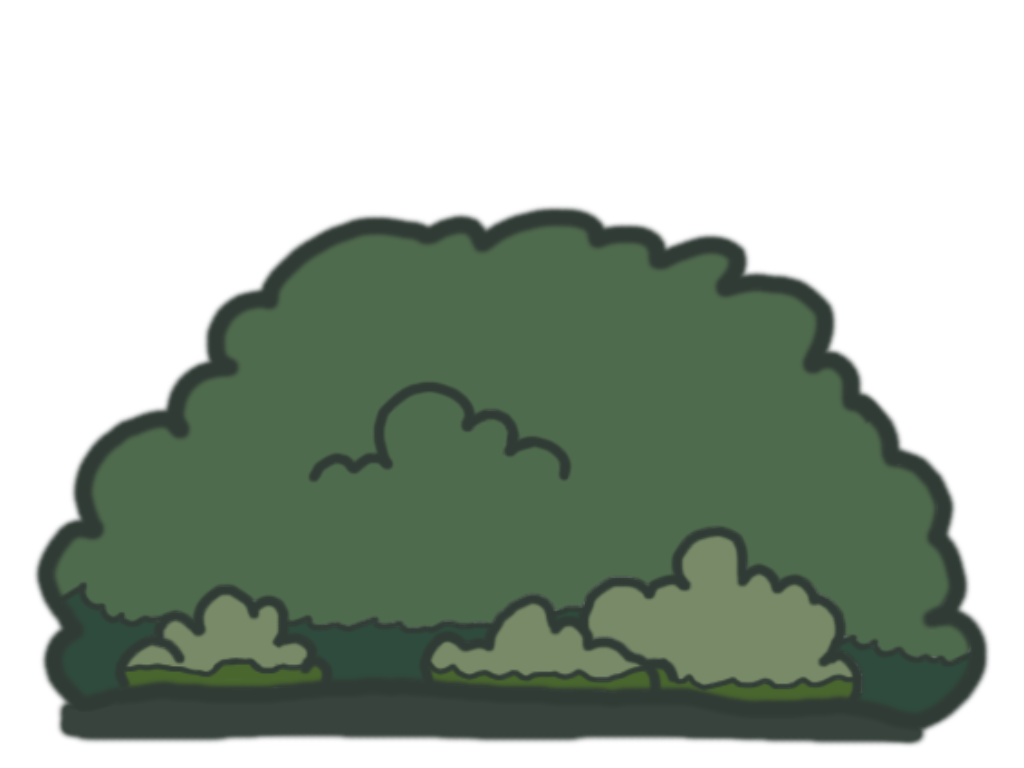
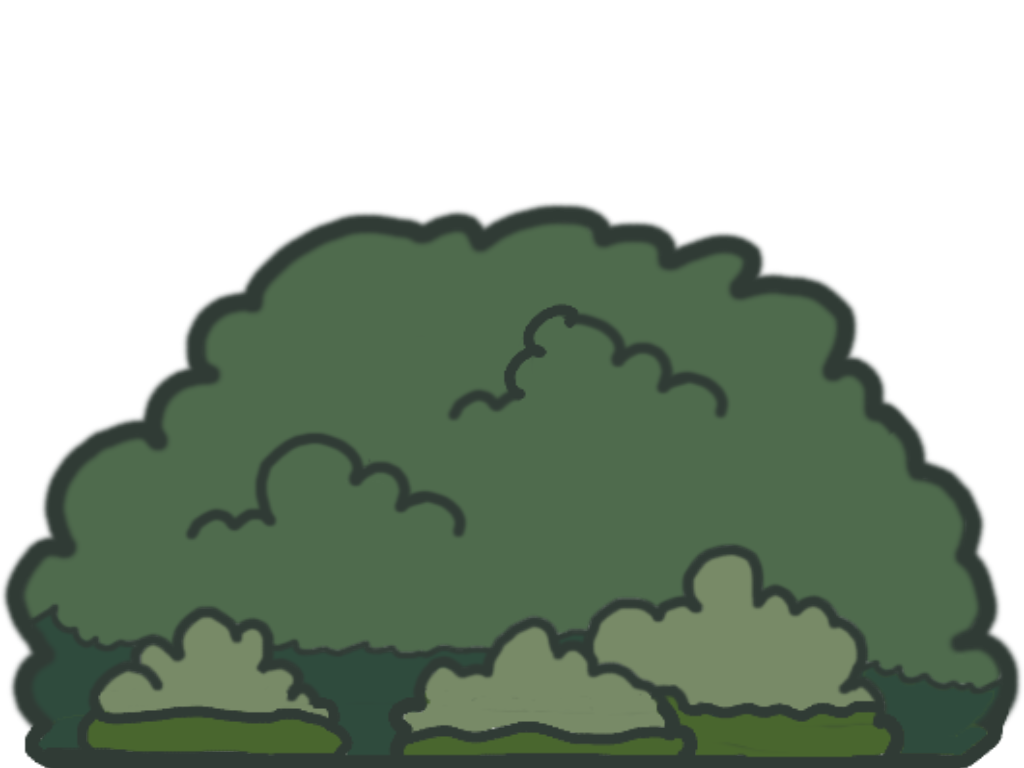
feat: screen order

diff --git a/App/Game1.cs b/App/Game1.cs
@@ -42,7 +42,7 @@ public class Game1 : Game
     private bool _showStudyCompletionAfterPhaseResult;
     private string _currentScenarioId = ScenarioCatalog.InitialScenarioId;
     private readonly Random _choicePresentationRandom = new Random();
-    private AppScreen _activeScreen = AppScreen.TITLE;
+    private AppScreen _activeScreen = AppScreen.SESSION_START;
     private OverlayState _overlayState = OverlayState.NONE;
     private KeyboardState _previousKeyboardState;
     private Texture2D _scenarioFadeTexture;
@@ -115,6 +115,7 @@ private ScenarioTransitionState _scenarioTransitionState = ScenarioTransitionSta
         _debugView.LoadContent(GraphicsDevice);
 
         TargetElapsedTime = TimeSpan.FromSeconds(SecondsPerFrameMenu);
+        OpenSessionStartFlow();
     }
 
     protected override void Update(GameTime gameTime)
@@ -268,7 +269,7 @@ private ScenarioTransitionState _scenarioTransitionState = ScenarioTransitionSta
         if(selectedOption == StartMenuOption.START)
         {
             _overlayState = OverlayState.NONE;
-            OpenSessionStartFlow();
+            _activeScreen = AppScreen.PHASE_SELECT;
         }
         else if(selectedOption == StartMenuOption.EXIT)
         {
@@ -311,7 +312,7 @@ private ScenarioTransitionState _scenarioTransitionState = ScenarioTransitionSta
 
         if (action == SessionStartAction.BACK)
         {
-            _activeScreen = AppScreen.START_MENU;
+            Exit();
             return;
         }
 
@@ -349,7 +350,7 @@ private ScenarioTransitionState _scenarioTransitionState = ScenarioTransitionSta
         _showStudyCompletionAfterPhaseResult = false;
         _pendingActiveSession = null;
         _phaseSelectMenu.SetSessionCode(_activeSessionCode);
-        _activeScreen = AppScreen.PHASE_SELECT;
+        _activeScreen = AppScreen.TITLE;
         _overlayState = OverlayState.NONE;
     }
 
@@ -459,7 +460,7 @@ private ScenarioTransitionState _scenarioTransitionState = ScenarioTransitionSta
             _activeSessionId = null;
             _activeSessionCode = null;
             _completedSessionData = null;
-            _activeScreen = AppScreen.START_MENU;
+            OpenSessionStartFlow();
             return;
         }
 

diff --git a/UI/ParticipantIdentificationScreen.cs b/UI/ParticipantIdentificationScreen.cs
@@ -20,7 +20,7 @@ public sealed class SessionStartScreen
     private const string ReplacementWarningText =
         "Uma nova sessão encerra a retomada da sessão atual";
     private const string NavigationText =
-        "W/S ou setas para navegar    Enter para selecionar    Esc para voltar";
+        "W/S ou setas para navegar    Enter para selecionar    Esc para sair";
 
     private readonly SpriteFont _font;
     private readonly Vector2 _center;
